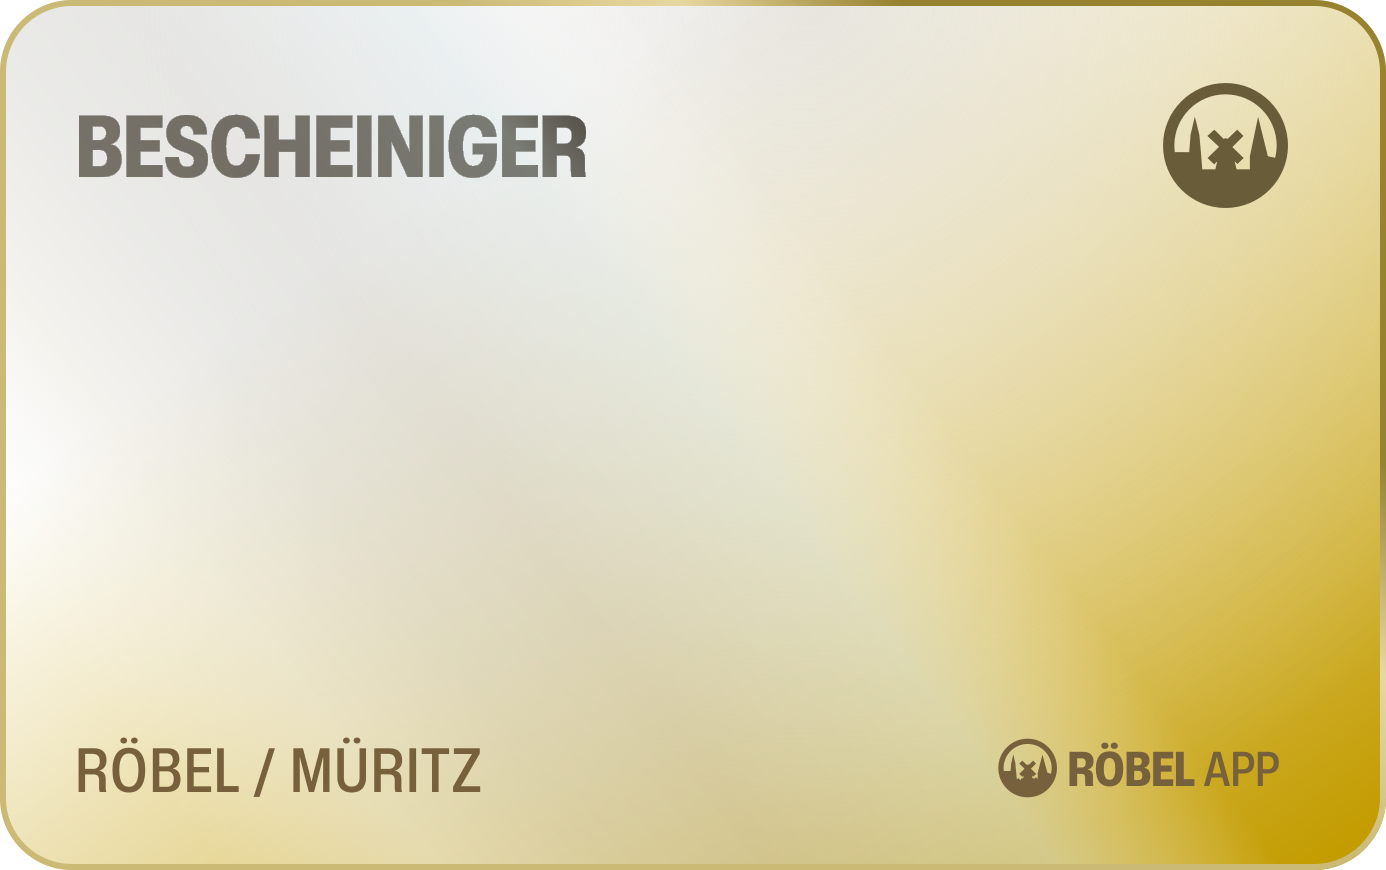
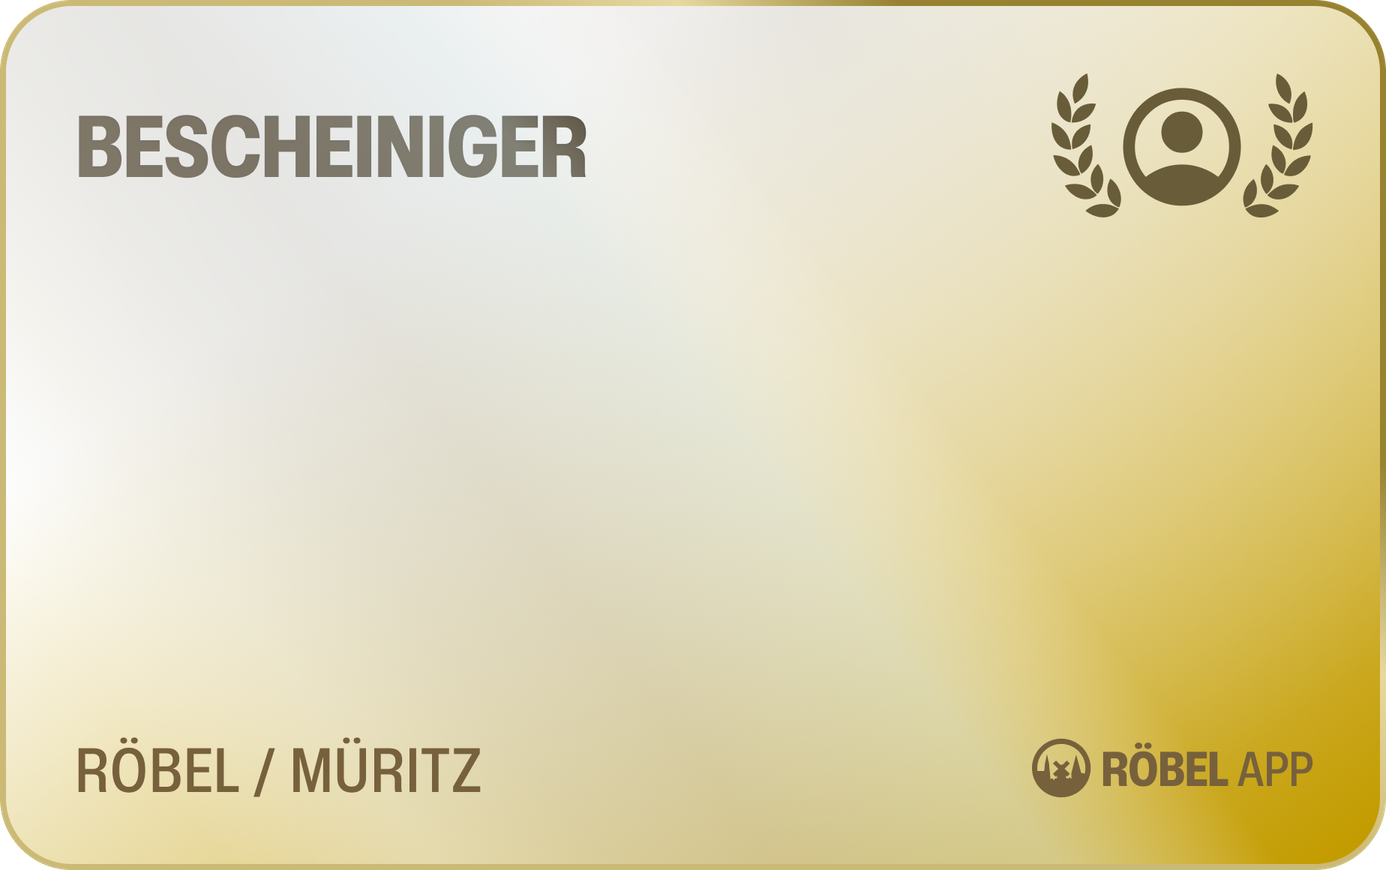
feat(expo): new credential card designs for the profile (Gast, Bürger, Bescheiniger)
The 1848x1160 PNG masters exported from Figma replace the SVGs as the design
source; render-credential-cards.mjs now downscales them with sharp (lanczos3)
to the 1x/2x/3x ladder the profile's CredentialCard ships.

Changed region(s): [[0.7446, 0.0931, 0.9618, 0.2483], [0.7136, 0.8379, 0.9618, 0.931]]

diff --git a/apps/expo/components/profile/credential-art.ts b/apps/expo/components/profile/credential-art.ts
@@ -1,4 +1,4 @@
-// PNGs generated by scripts/render-credential-cards.mjs from assets/cards/*.svg.
+// PNGs generated by scripts/render-credential-cards.mjs from the assets/cards/*.png masters.
 // Metro picks the @2x/@3x variant for the device scale.
 import type { ImageSourcePropType } from 'react-native';
 import type { CredentialKind } from '@/lib/credentials';
